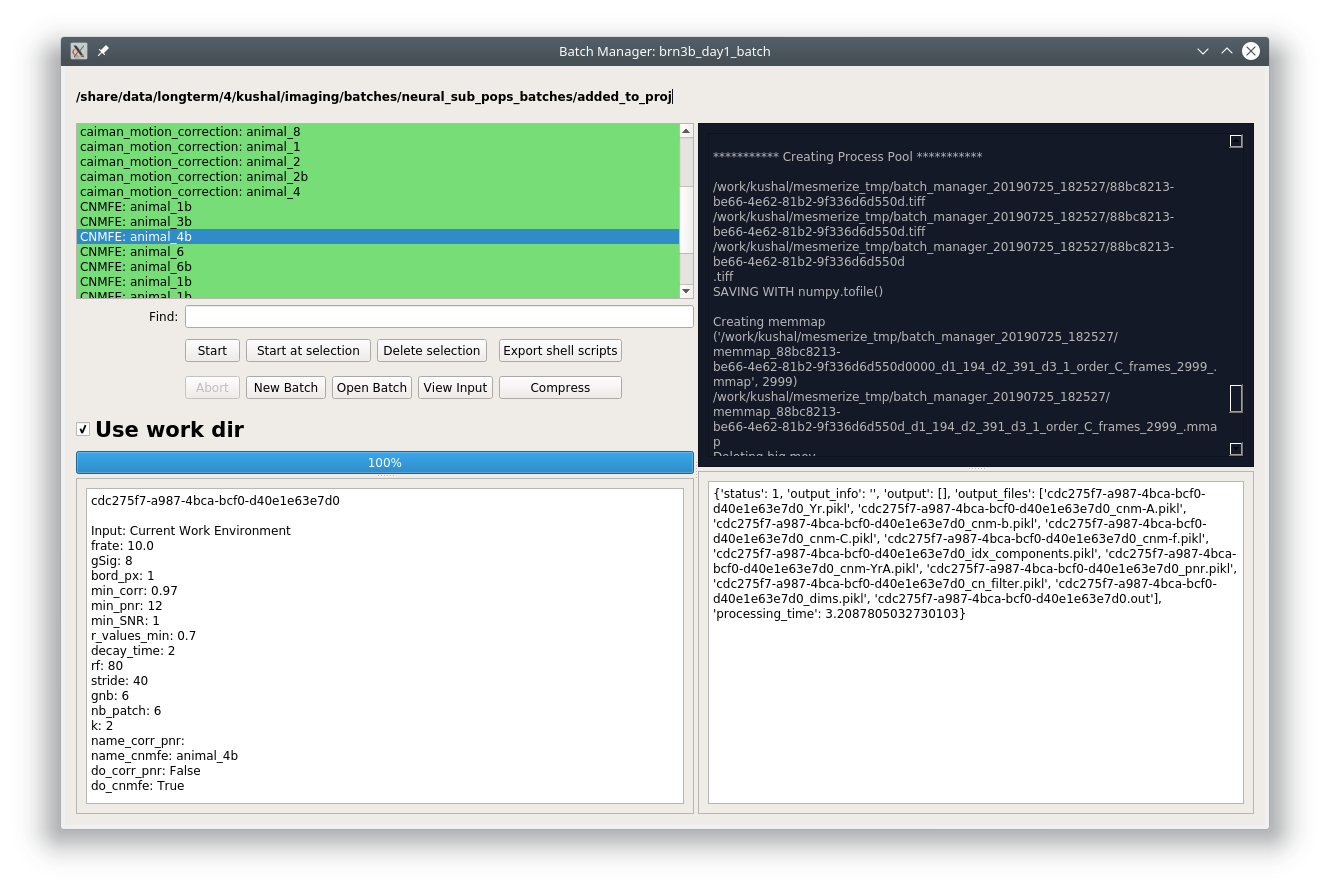
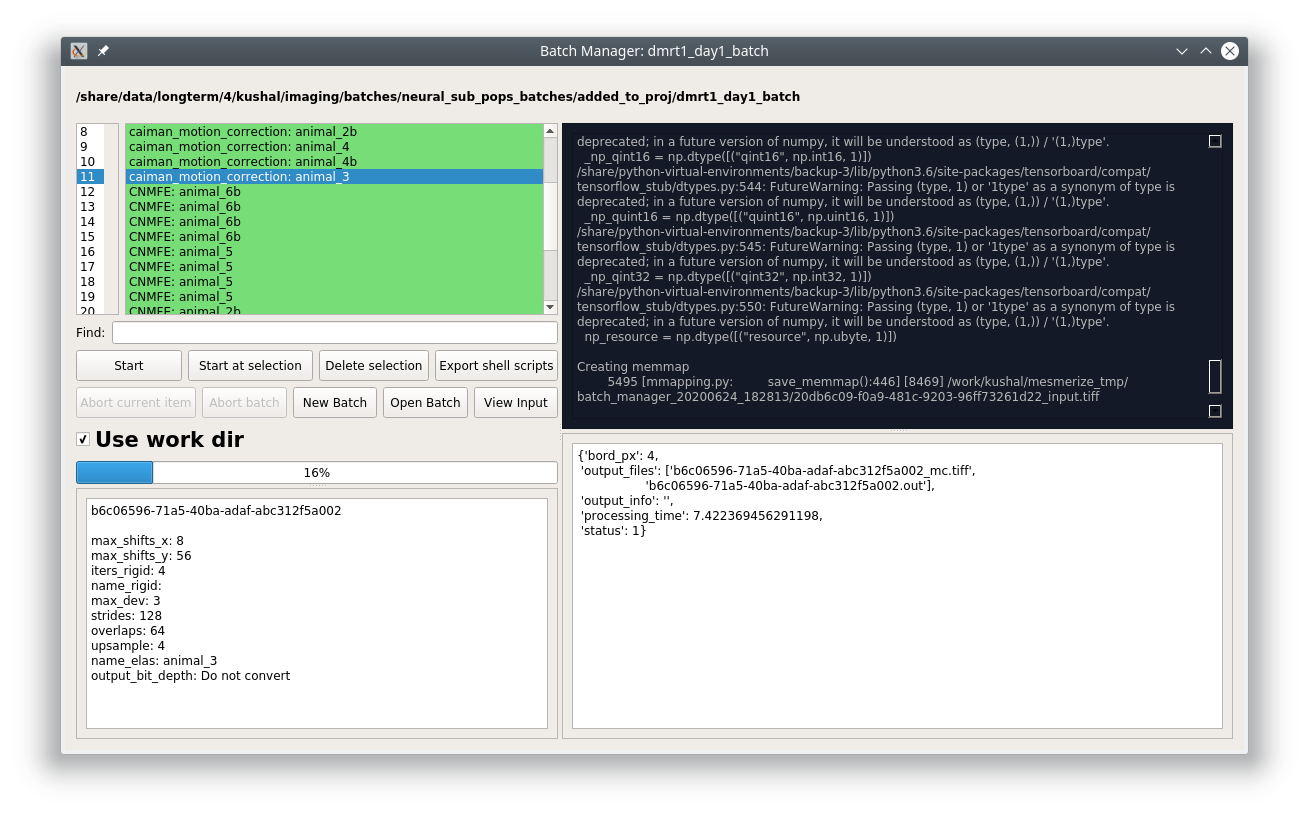
updating docs to reflect changes for v0.2

Changed region(s): [[0.0306, 0.0307, 0.9473, 0.9509]]

diff --git a/source/user_guides/viewer/overview.rst b/source/user_guides/viewer/overview.rst
@@ -18,6 +18,19 @@ Layout
 
 To access Viewer modules choose the module you want to run from the Modules menu at the top. All modules, except the Batch Manager, are small floating windows which you can dock into the Viewer by dragging them to an edge of the viewer.
 
+3D data
+-------
+
+When viewing 3D data a slider on the left allows you to move through the z axis.
+
+.. thumbnail:: .overview/viewer_3d.png
+
+The image stack shown above is from Martin Haesemeyer's dataset from the following paper:
+
+    Haesemeyer M, Robson DN, Li JM, Schier AF, Engert F. A Brain-wide Circuit Model of Heat-Evoked Swimming Behavior in Larval Zebrafish. Neuron. 2018;98(4):817-831.e6. doi:10.1016/j.neuron.2018.04.013
+
+
+
 .. _ViewerWorkEnv:
 
 Work Environment
@@ -120,7 +133,7 @@ Not implemented yet. You can change the dtype through the console.
 Projections
 ^^^^^^^^^^^
 
-View Mean, Max, and Standard Deviation projections of the current image sequence in the work environment.
+View Mean, Max, and Standard Deviation projections of the current image sequence in the work environment. If the data are 3D, the projection is of the current plane.
 
 Modules
 -------
@@ -192,7 +205,7 @@ all_modules             List all available modules (includes default and any ava
 ViewerWorkEnv           Use for creating new instances of :ref:`ViewerWorkEnv <API_ViewerWorkEnv>`
 ImgData                 Use for creating new instances of :ref:`ImgData <API_ImgData>`
 get_workEnv()           Get the current viewer :ref:`work environment <ViewerWorkEnv>` (instance of :ref:`ViewerWorkEnv <API_ViewerWorkEnv>`)
-get_image()             Get the current image sequence (returns current :ref:`ViewerWorkEnv.imgdata.seq <API_ViewerWorkEnv>`)
+get_image()             Get the current image sequence (returns current :ref:`ViewerWorkEnv.imgdata.seq <API_ViewerWorkEnv>`). If the data are 3D it returns the current plane only.
 get_meta()              Get the current meta data
 get_module(<name>)      Pass the name of a module as a string. Returns that module if it is available.
 get_batch_manager()     Get the batch manager.
@@ -252,7 +265,7 @@ Open image
     meta = ...
     
     # Create ImgData instance
-    # Image sequence must be numpy array of shape [x, y, t]
+    # Image sequence must be numpy array of shape [x, y, t] or [x, y, t, z]
     imgdata = ImgData(seq.T, meta)
     
     # Create a work environment instance

diff --git a/source/user_guides/viewer/modules/batch_manager.rst b/source/user_guides/viewer/modules/batch_manager.rst
@@ -43,14 +43,14 @@ Window title: Name of batch directory
     Start at selection          Process the batch starting from the item that is currently selected in the list.
     Delete selection            Delete the item that is currently being selected along with the associated data in the batch dir.
     Export shell scripts        Export bash scripts so that the batch items can be run on a computing cluster
-    Abort                       Abort the current batch item
+    Abort current item          Abort the current batch item and move on to the next item
+    Abort batch                 Abort the current item and stop processing the batch
     New batch                   Create a new batch
     Open batch                  Open a batch
     View Input                  Open the input work environment, in the viewer, for the currently selected item
-    Compress                    Not implemented
     ======================    ================================================
     
-    **Use work dir:** Check this box to use the work dir that has been set in the :ref:`System Configuration <SystemConfiguration>`
+    **Use work dir:** Check this box to use the work dir that has been set in the :ref:`System Configuration <SystemConfiguration>`. This feature is only available on Linux & Mac OSX.
     
 **Top right:** Standard out from the external processes that are processing the batch items.
 

diff --git a/source/user_guides/viewer/modules/tiff_file.rst b/source/user_guides/viewer/modules/tiff_file.rst
@@ -15,6 +15,8 @@ When you choose a tiff file it will automatically find the associated .json meta
 
 Finally, select an appropriate load method (see next section) and click "Load into workEnv"
 
+You specify a non-standard axes order (more information below)
+
 .. warning:: If the name of the tiff file and .json meta data file are different, you must specify the .json meta data file using the *Select meta data* button.
 
 .. warning:: **You cannot perform any analysis without the meta data file since you need the sampling rate of the video and it is specified in the meta data file.**
@@ -42,3 +44,28 @@ imread
 ------
 
 Usually slower, should work for most tiff files.
+
+Axes order
+==========
+
+Choose the default 2D\3D axes order or manually enter the axes order if your tiff file uses a different order.
+
+
+Script usage
+============
+
+You can also load tiff files through the :ref:`Viewer Console <ViewerConsole>` or :ref:`Script Editor <module_ScriptEditor>`.
+
+.. code-block:: python
+    :linenos:
+
+    image_path = # path to tiff file
+    meta_path = # path to json meta data file
+    
+    vi._clear_workEnv() # Prevents a dialog box from appearing
+    
+    tio = get_module('tiff_io')
+    tio.load_tiff_file(image_path, meta_path, method='imread', axes_order='txy')
+
+    
+.. seealso:: :ref:`Viewer Core API <API_ViewerCore>`, :ref:`Overview on consoles <ConsoleOverview>`

diff --git a/source/user_guides/installation.rst b/source/user_guides/installation.rst
@@ -212,7 +212,7 @@ You will also need git: https://gitforwindows.org/
 
 **All commands are to be run in the powershell**
 
-#. You will need anaconda to be accessible through powershell. Close & open a new powershell after running this::
+#. You will need anaconda to be accessible through powershell. You may need to run powershell as administrator for this stepo to work. Close & open a new non-admin powershell after running this::
 
     conda init powershell
 
